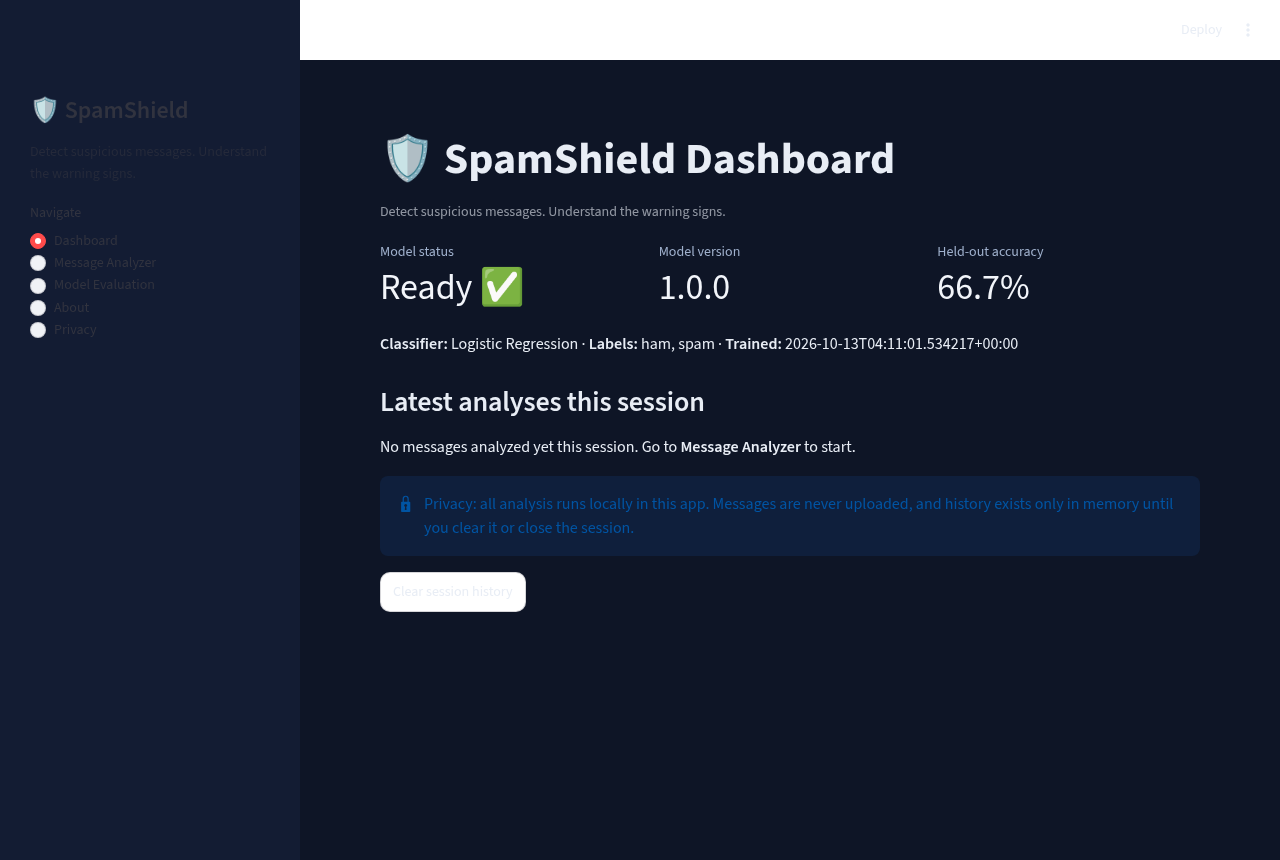
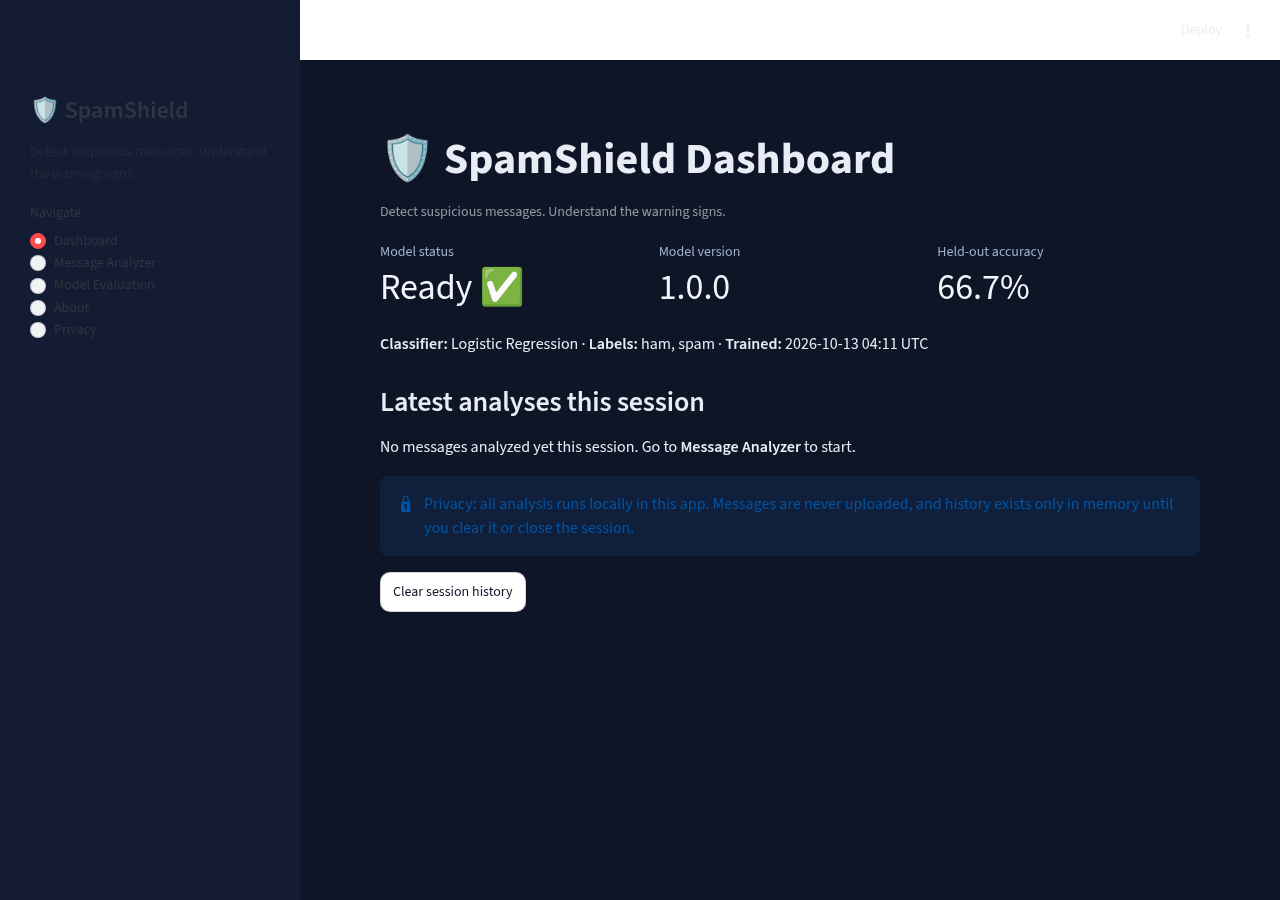
UI/UX overhaul: readable buttons, native progress probabilities, dataframe metrics, comparison table, formatted dates, no deprecated APIs

diff --git a/app.py b/app.py
@@ -36,7 +36,12 @@ h1, h2, h3 { color: #f2f5fa; }
 .small { color:#9fb0cc; font-size:0.9em; }
 [data-testid="stMetricValue"] { color: #f2f5fa; }
 [data-testid="stMetricLabel"] { color: #9fb0cc; }
-.stButton > button { border-radius: 10px; font-weight: 600; }
+.stButton > button { border-radius: 10px; font-weight: 600; color: #0e1526; }
+.stButton > button[kind="primary"] { color: #ffffff; }
+.stButton > button:hover { color: #0e1526; }
+.stButton > button[kind="primary"]:hover { color: #ffffff; }
+.prob-row { margin: 2px 0 10px 0; }
+.prob-label { font-size: 0.9em; color: #cbd5e1; margin-bottom: 2px; }
 </style>
 """
 st.markdown(CUSTOM_CSS, unsafe_allow_html=True)
@@ -71,7 +76,12 @@ def show_result(result: dict):
     probs = result.get("probabilities") or {}
     if probs:
         st.write("**Probability breakdown:**")
-        st.bar_chart(probs)
+        for label, p in sorted(probs.items(), key=lambda kv: kv[1], reverse=True):
+            st.markdown(
+                f"<div class='prob-label'>{html.escape(label)} — {p:.0%}</div>",
+                unsafe_allow_html=True,
+            )
+            st.progress(min(max(float(p), 0.0), 1.0))
     st.markdown(
         f"<div class='card risk-{html.escape(str(result.get('advisory_level', 'unknown')))}'>"
         f"<b>Advisory: {html.escape(str(result.get('advisory_level', 'unknown')).title())}</b><br>"
@@ -108,6 +118,8 @@ if page == "Dashboard":
     st.caption("Detect suspicious messages. Understand the warning signs.")
     from spamshield.predictor import model_status
     status = model_status()
+    trained_raw = str(status.get("trained_at", "?"))
+    trained_short = trained_raw[:16].replace("T", " ") + " UTC" if "T" in trained_raw else trained_raw
     c1, c2, c3 = st.columns(3)
     c1.metric("Model status", "Ready ✅" if status["available"] else "Not trained ⚠")
     c2.metric("Model version", status.get("version", "unknown"))
@@ -116,11 +128,18 @@ if page == "Dashboard":
         st.info("No trained model found. Train one with: `python train.py --data data/sample_messages.csv`")
     else:
         st.write(f"**Classifier:** {status.get('model_type', '?')} · **Labels:** {', '.join(status.get('labels', [])) or '?'} "
-                 f"· **Trained:** {status.get('trained_at', '?')}")
+                 f"· **Trained:** {trained_short}")
     st.subheader("Latest analyses this session")
     if st.session_state.history:
-        for h in reversed(st.session_state.history[-5:]):
-            st.write(f"- `{h['prediction']}` ({h.get('advisory_level', '?')}) — {h['preview']}")
+        import pandas as pd
+
+        st.dataframe(
+            pd.DataFrame(reversed(st.session_state.history[-5:]))[
+                ["prediction", "advisory_level", "preview"]
+            ],
+            width="stretch",
+            hide_index=True,
+        )
     else:
         st.write("No messages analyzed yet this session. Go to **Message Analyzer** to start.")
     st.info("🔒 Privacy: all analysis runs locally in this app. Messages are never uploaded, "
@@ -135,13 +154,13 @@ elif page == "Message Analyzer":
         st.session_state.msg = ""
     col_ex = st.columns(len(EXAMPLES))
     for (name, txt), col in zip(EXAMPLES.items(), col_ex):
-        if col.button(name, use_container_width=True):
+        if col.button(name, width="stretch"):
             st.session_state.msg = txt
             st.rerun()
     text = st.text_area("Paste a message to analyze", key="msg", height=160, max_chars=5000)
     b1, b2 = st.columns([1, 1])
-    analyze = b1.button("🔍 Analyze", type="primary", use_container_width=True)
-    if b2.button("🧹 Clear", use_container_width=True):
+    analyze = b1.button("🔍 Analyze", type="primary", width="stretch")
+    if b2.button("🧹 Clear", width="stretch"):
         st.session_state.msg = ""
         st.rerun()
     if analyze:
@@ -164,7 +183,6 @@ elif page == "Model Evaluation":
     if ev is None:
         st.warning("No evaluation report found. Generate one by running:\n\n`python train.py --data data/sample_messages.csv`")
     else:
-        meta = ev.get("metadata", {})
         c1, c2, c3, c4 = st.columns(4)
         c1.metric("Accuracy", f"{ev['accuracy']:.3f}")
         c2.metric("Precision (macro)", f"{ev['precision_macro']:.3f}")
@@ -174,11 +192,20 @@ elif page == "Model Evaluation":
                    f"(train: {ev.get('n_train', '?')}) · ~{ev.get('inference_latency_ms_per_message', '?')} ms/message. "
                    "Accuracy alone is insufficient with imbalanced classes — compare per-class precision/recall/F1 below.")
         st.subheader("Per-class metrics")
-        st.table({k: {m: round(v, 3) if isinstance(v, float) else v for m, v in d.items()}
-                  for k, d in ev.get("per_class", {}).items()})
+        import pandas as pd
+
+        per_class = ev.get("per_class", {})
+        df_metrics = pd.DataFrame(per_class).T.reset_index(names="class")
+        if "support" in df_metrics.columns:
+            df_metrics["support"] = df_metrics["support"].astype(int)
+        st.dataframe(
+            df_metrics.style.format({c: "{:.3f}" for c in ("precision", "recall", "f1")}),
+            width="stretch",
+            hide_index=True,
+        )
         st.subheader("Confusion matrix")
         if CM_PATH.exists():
-            st.image(str(CM_PATH))
+            st.image(str(CM_PATH), width=520)
         else:
             st.write(f"Raw counts: {ev.get('confusion_matrix')}")
         with st.expander("Error analysis (false positives / false negatives)"):
@@ -191,7 +218,25 @@ elif page == "Model Evaluation":
         cmp_path = BASE_DIR / "reports" / "model_comparison.json"
         if cmp_path.exists():
             st.subheader("Logistic Regression vs Naive Bayes")
-            st.json(json.loads(cmp_path.read_text(encoding="utf-8")))
+            cmp = json.loads(cmp_path.read_text(encoding="utf-8"))
+            rows = {k: v for k, v in cmp.items() if isinstance(v, dict)}
+            st.dataframe(
+                pd.DataFrame(rows).T.reset_index(names="model").style.format(
+                    {c: "{:.3f}" for c in ("accuracy", "precision_macro", "recall_macro", "f1_macro", "f1_weighted")},
+                    na_rep="—",
+                ),
+                width="stretch",
+                hide_index=True,
+            )
+            for model_name, vals in rows.items():
+                f1 = vals.get("f1_macro")
+                if isinstance(f1, (int, float)):
+                    st.markdown(
+                        f"<div class='prob-label'>{html.escape(model_name)} — F1 {f1:.3f}</div>",
+                        unsafe_allow_html=True,
+                    )
+                    st.progress(min(max(float(f1), 0.0), 1.0))
+            st.caption(cmp.get("note", ""))
 
 elif page == "About":
     st.title("📘 About SpamShield")
